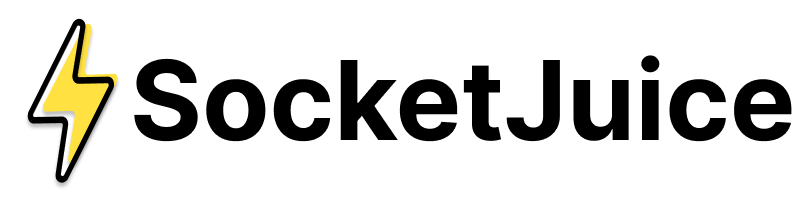
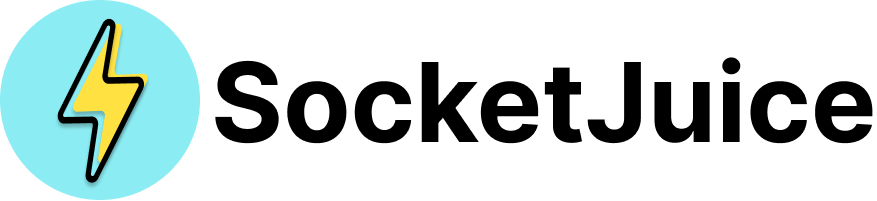
Made changes to front end design

diff --git a/frontend/src/pages/Application/MapPage.js b/frontend/src/pages/Application/MapPage.js
@@ -1601,20 +1601,20 @@ const {scrollToTime} = useMemo(
       </div>
 
       {auth.userId && <div className="p-2 rounded-xl m-2 bg-white shadow-sm z-10 
-      flex flex-row border items-center justify-center gap-x-2">
+      flex flex-row border items-center justify-center gap-x-1">
 
         <div className='flex flex-row items-center'> 
 
             <svg xmlns="http://www.w3.org/2000/svg" 
             fill="none" viewBox="0 0 24 24" 
-            className="absolute pl-2 pt-1 h-7 pointer-events-none z-20"
+            className="absolute pl-2 h-6 pointer-events-none z-20"
             strokeWidth="2" stroke="#00D3E0">
               <path strokeLinecap="round" strokeLinejoin="round" 
               d="M21 21l-5.197-5.197m0 0A7.5 7.5 0 105.196 5.196a7.5 7.5 0 0010.607 10.607z" />
             </svg>
 
               <GooglePlacesAutocomplete
-
+                  className="text-sm sm:text-base"
                   apiKey={process.env.REACT_APP_GOOGLE_MAPS_API_KEY}
                   debounce={400}
                   // autocompletionRequest={{
@@ -1629,7 +1629,7 @@ const {scrollToTime} = useMemo(
                       styles: {
                           control: (provided, state) => ({
                               ...provided,
-                              width: "175px",
+                              width: "170px",
                               height: "50px",
                               boxShadow: "#00D3E0",
                               paddingTop: "8px",
@@ -1650,7 +1650,9 @@ const {scrollToTime} = useMemo(
                               },
                               borderColor: "#00d3e080",
                               outlineColor: "#00D3E0",
-                              "--tw-ring-color": "#00D3E0"
+                              "--tw-ring-color": "#00D3E0",
+                              fontSize: "0.875rem",
+                              lineHeight: "1.25rem",
                           }),
                           menu: (provided) => ({
                               ...provided,
@@ -1663,12 +1665,10 @@ const {scrollToTime} = useMemo(
               />
         </div>
 
-        <p>or</p>
-
         <div className='flex flex-row'>
 
             <button className='rounded-md px-1 py-3 border border-[#00D3E0] text-gray-500 
-            w-[175px] h-[50px] flex flex-row items-center' 
+            w-[170px] h-[50px] flex flex-row items-center' 
               onClick={(e)=> handlePanLocation(e)}>
                 
                 {waitingCurrent ?
@@ -1697,7 +1697,7 @@ const {scrollToTime} = useMemo(
                 </div>
                 }
 
-              <p className='pl-2'>Current Location</p>
+              <p className='pl-2 pt-1 text-sm'>Current Location</p>
             </button>
 
         </div>
@@ -1712,7 +1712,7 @@ const {scrollToTime} = useMemo(
               bg-gray-50 border-2 border-[#00D3E0] z-10 items-center px-2'>
 
                 <div className='flex flex-row overflow-x-scroll w-full
-                pl-4 border-b border-gray-500 py-1'>
+                pl-4 border-b border-[#00D3E0] py-1'>
 
                     <div className='flex flex-row items-center justify-start gap-x-3'>
                     <label className='text-right pr-1 text-xs sm:text-sm'>J1772 AC</label>
@@ -1896,13 +1896,14 @@ const {scrollToTime} = useMemo(
        <div className='flex flex-grow justify-end items-end'>
             
             <div className='flex flex-col w-[350px] h-[200px] rounded-xl bg-gray-50 
-              border-2 border-[#00D3E0] z-10 items-center overflow-y-scroll'>
+              border border-[#00D3E0] z-10 items-center overflow-y-scroll'>
 
               <div className='flex flex-row overflow-x-scroll w-full
-                pl-4 border-b border-gray-500 py-4'>
+                pl-4 border-b border-[#00D3E0] py-1'>
 
                     <div className='flex flex-row items-center justify-start gap-x-3'>
-                    <label className='text-right pr-1 text-xs sm:text-sm'>J1772 AC</label>
+                      
+                    <p className='text-right pr-1 text-xs sm:text-sm'>J1772 AC</p>
                     <FormControlLabel
                         label=""
                         control={
@@ -1910,7 +1911,7 @@ const {scrollToTime} = useMemo(
                                 onChange={()=>setj1772ACChecked(!j1772ACChecked)}
                                 style ={{
                                 color: "#00D3E0",
-                                transform: "scale(1.4)",
+                                transform: "scale(1.3)",
                             }}
                             />
                         }
@@ -1918,7 +1919,7 @@ const {scrollToTime} = useMemo(
                     </div>
 
                     <div className='flex flex-row items-center justify-start gap-x-3'>
-                    <label className='text-right pr-1 text-xs sm:text-sm'>CCS1 DC</label>
+                    <p className='text-right pr-1 text-xs sm:text-sm'>CCS1 DC</p>
                     <FormControlLabel
                         label=""
                         control={
@@ -1926,7 +1927,7 @@ const {scrollToTime} = useMemo(
                               onChange={()=>setccs1DCChecked(!ccs1DCChecked)}
                               style ={{
                               color: "#00D3E0",
-                              transform: "scale(1.4)",
+                              transform: "scale(1.3)",
                           }}
                           />
                         }
@@ -1934,7 +1935,7 @@ const {scrollToTime} = useMemo(
                     </div>
 
                     <div className='flex flex-row items-center justify-start gap-x-3'>
-                    <label className='text-right pr-1 text-xs sm:text-sm'>Mennekes AC</label>
+                    <p className='text-right pr-1 text-xs sm:text-sm'>Mennekes AC</p>
                     <FormControlLabel
                         label=""
                         control={
@@ -1942,7 +1943,7 @@ const {scrollToTime} = useMemo(
                               onChange={()=>setmennekesACChecked(!mennekesACChecked)}
                               style ={{
                               color: "#00D3E0",
-                              transform: "scale(1.4)",
+                              transform: "scale(1.3)",
                           }}
                         />
                         }
@@ -1950,7 +1951,7 @@ const {scrollToTime} = useMemo(
                     </div>
 
                     <div className='flex flex-row items-center justify-start gap-x-3'>
-                    <label className='text-right pr-1 text-xs sm:text-sm'>CCS2 DC</label>
+                    <p className='text-right pr-1 text-xs sm:text-sm'>CCS2 DC</p>
                     <FormControlLabel
                         label=""
                         control={
@@ -1958,7 +1959,7 @@ const {scrollToTime} = useMemo(
                               onChange={()=>setccs2DCChecked(!ccs2DCChecked)}
                               style ={{
                               color: "#00D3E0",
-                              transform: "scale(1.4)",
+                              transform: "scale(1.3)",
                           }}
                           />
                         }
@@ -1974,7 +1975,7 @@ const {scrollToTime} = useMemo(
                             onChange={()=>setchademoDCChecked(!chademoDCChecked)}
                             style ={{
                             color: "#00D3E0",
-                            transform: "scale(1.4)",
+                            transform: "scale(1.3)",
                         }}
                         />
                       }
@@ -1990,7 +1991,7 @@ const {scrollToTime} = useMemo(
                               onChange={()=>setgbtACChecked(!gbtACChecked)}
                               style ={{
                               color: "#00D3E0",
-                              transform: "scale(1.4)",
+                              transform: "scale(1.3)",
                           }}
                           />
                         }
@@ -2006,7 +2007,7 @@ const {scrollToTime} = useMemo(
                                 onChange={()=>setgbtDCChecked(!gbtDCChecked)}
                                 style ={{
                                 color: "#00D3E0",
-                                transform: "scale(1.4)",
+                                transform: "scale(1.3)",
                             }}
                             />
                         }
@@ -2022,7 +2023,7 @@ const {scrollToTime} = useMemo(
                                 onChange={()=>setTeslaChecked(!teslaChecked)}
                                 style ={{
                                 color: "#00D3E0",
-                                transform: "scale(1.4)",
+                                transform: "scale(1.3)",
                             }}
                             />
                         }

diff --git a/frontend/src/components/mainHeader/mainHeader.js b/frontend/src/components/mainHeader/mainHeader.js
@@ -20,6 +20,7 @@ import TabContext from "@material-ui/lab/TabContext";
 import TabList from "@material-ui/lab/TabList";
 import TabPanel from "@material-ui/lab/TabPanel";
 
+import socketjuice_small_logo from "../../images/Socketjuice_logo_small.png";
 import socketjuice_full_logo from "../../images/SocketJuice.png";
 import editNewMessagesFill from '../../helpers/Notifications/editNewMessagesFill';
 import checkUser from '../../helpers/DriverData/checkUser';
@@ -702,13 +703,21 @@ const MainHeader = () => {
             <div className="flex flex-row justify-evenly md:justify-between items-center max-w-full w-full h-full 
                 gap-y-1 gap-x-4 sm:gap-x-6 pt-1 overflow-x-hidden flex-shrink-0" >
 
-                <div className='flex flex-row w-3/4 sm:w-1/2 justify-center'>
+                <div className='sm:flex sm:flex-row hidden sm:w-3/4 sm:justify-center'>
                     <Link reloadDocument to={ROUTES.MAP} >
-                        <img className='h-[5vh] sm:h-[6vh] md:h-[7vh] flex-shrink-0 pl-2 md:pl-8' src={socketjuice_full_logo} />
+                        <img className='h-[5vh] sm:h-[6vh] md:h-[7vh] flex-shrink-0 pl-2 md:pl-8' 
+                        src={socketjuice_full_logo} />
                     </Link>
                 </div>
 
                 <div className='flex flex-row w-full justify-center gap-x-3 sm:gap-x-4 md:gap-x-6 pr-2'>
+
+                    <div className='sm:hidden flex flex-row justify-center pr-4'>
+                        <Link reloadDocument to={ROUTES.MAP} >
+                            <img className='h-[5vh] sm:h-[6vh] md:h-[7vh] flex-shrink-0 pl-2 md:pl-8' 
+                            src={socketjuice_small_logo} />
+                        </Link>
+                    </div>
 
                     <Link reloadDocument to={ROUTES.MAP} aria-label="StoreDashboard"
                         className={`flex justify-center flex-row items-center hover:bg-[#FFE142]
@@ -849,7 +858,7 @@ const MainHeader = () => {
 
                     <div className='flex flex-col items-center justify-center px-2 sm:px-4 md:px-6 lg:px-10 pb-6 flex-shrink-0'>
                         <img className='w-[300px]' src={socketjuice_full_logo} />
-                        <p className='text-lg text-center'>Share your EV charger to earn extra income or share for free!</p>
+                        <p className='pt-3 text-lg text-center'>Share your EV charger to earn extra income or share for free!</p>
                     </div>
 
                     <div className='py-4 flex flex-col justify-center items-center'>

diff --git a/frontend/src/components/notifications/notificationsDropdown.js b/frontend/src/components/notifications/notificationsDropdown.js
@@ -284,7 +284,7 @@ export default function NotificationsDropdown() {
           id="account-menu"
           open={openMenu}
           onClose={()=>handleClose()}
-          style={{zIndex: 10000}}
+          style={{zIndex: 10000, width: "350px"}}
           PaperProps={{
             style: {  
               width: 350,  
